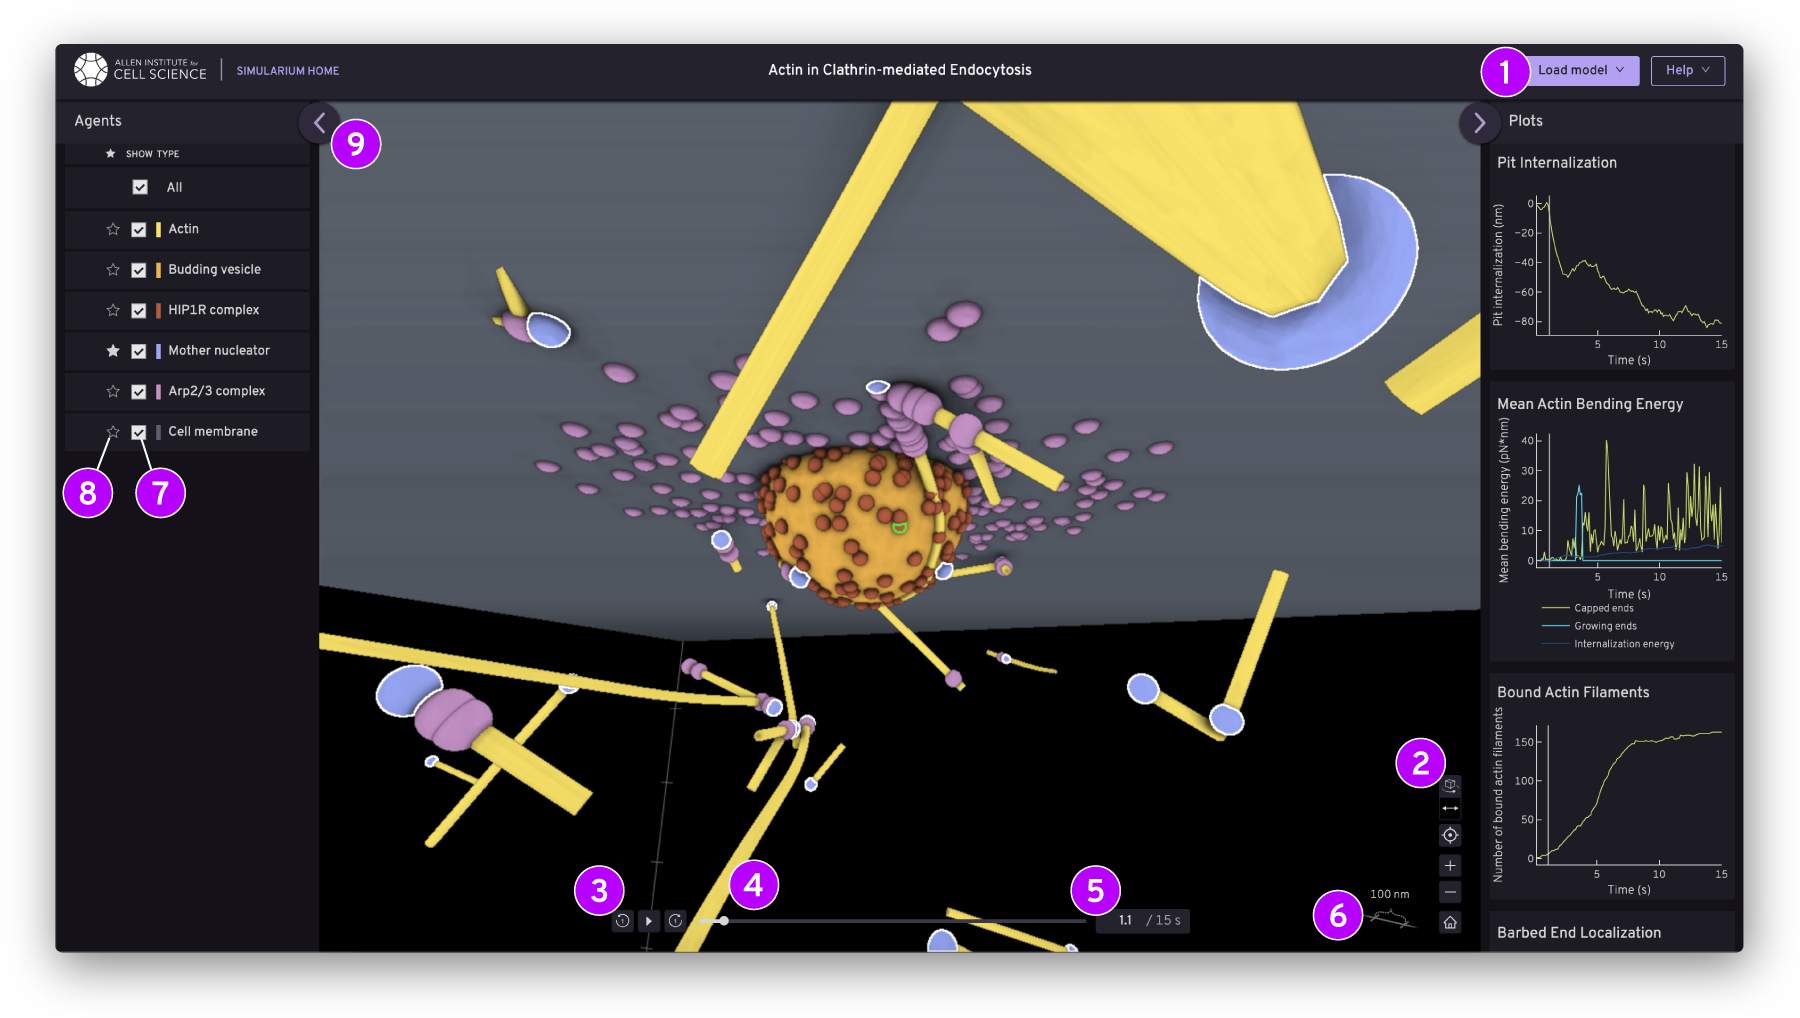
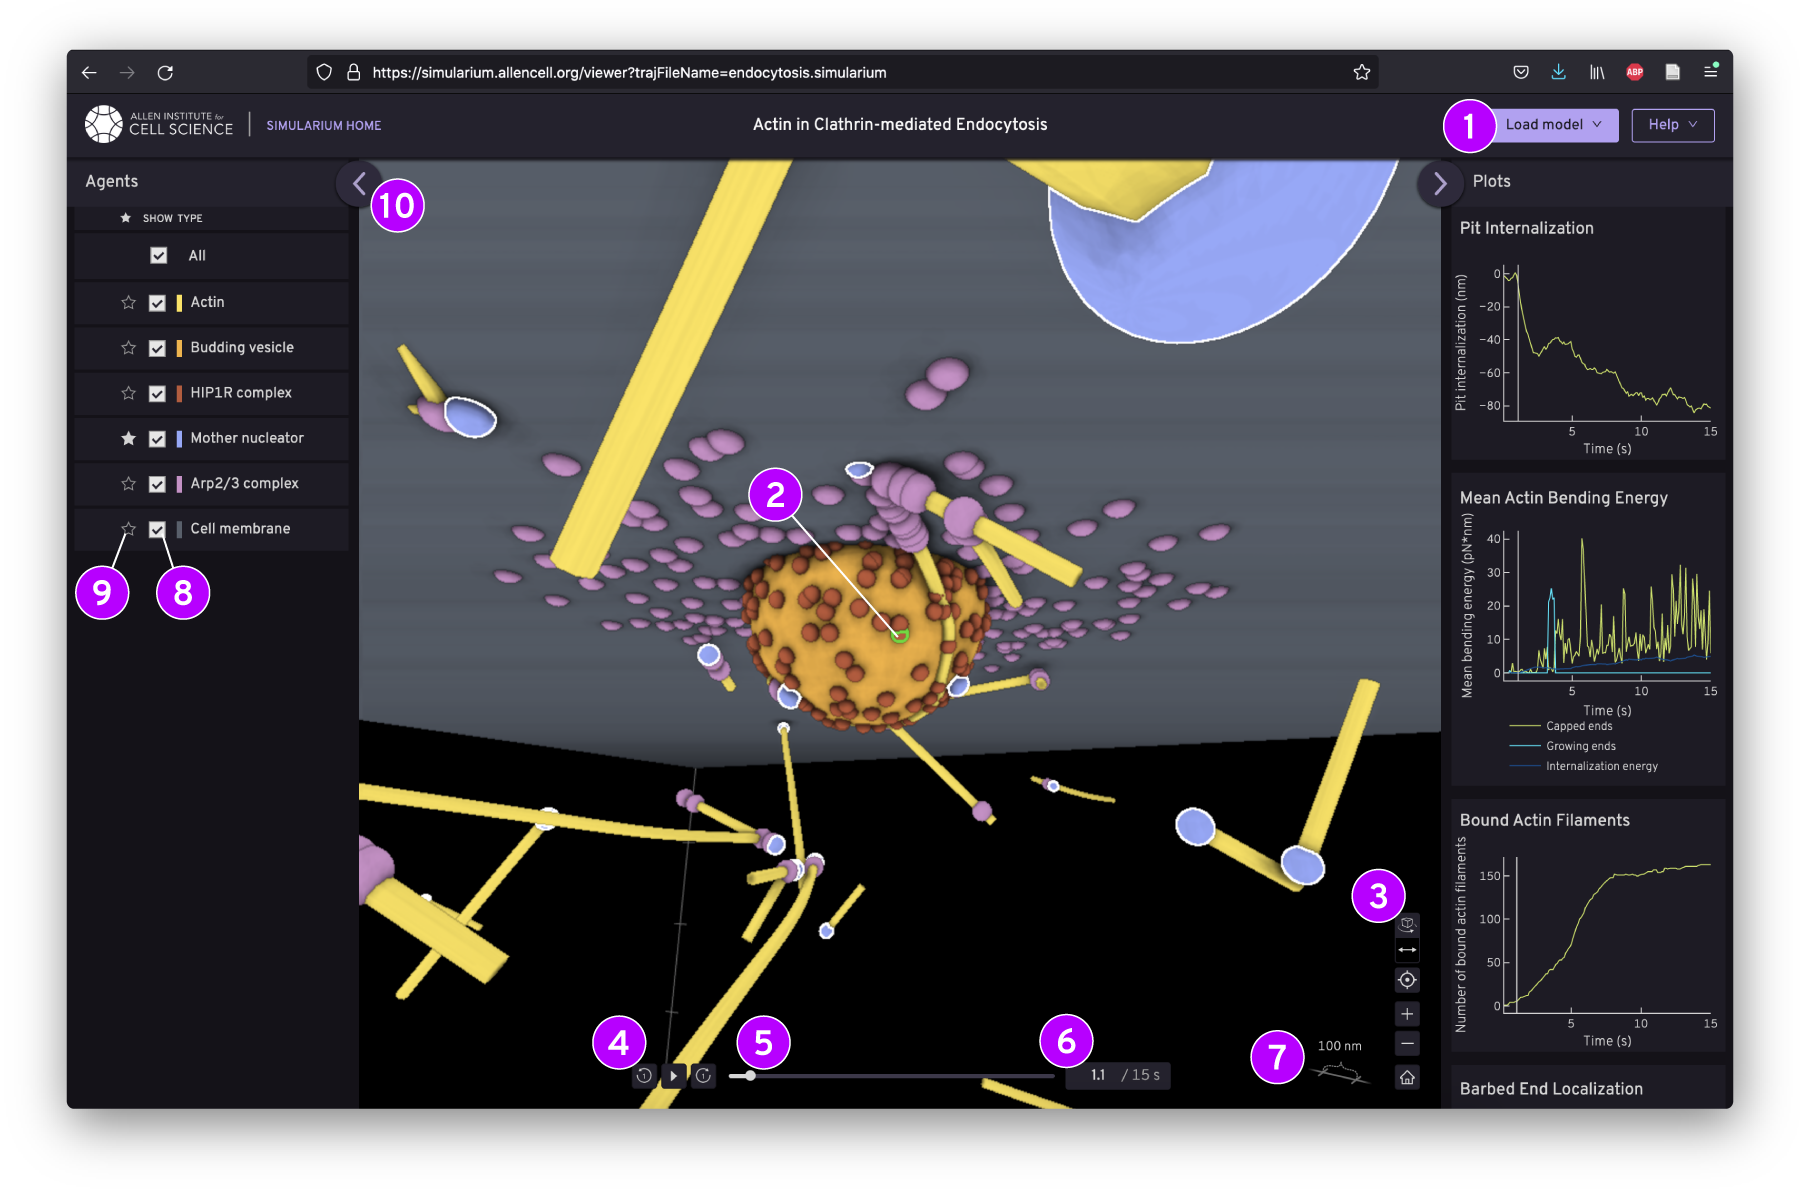
Update image and glossary key again

Changed region(s): [[0.0311, 0.0305, 0.9956, 0.944]]

diff --git a/src/constants/visual-glossary.ts b/src/constants/visual-glossary.ts
@@ -7,6 +7,11 @@ const visualGlossary: VisualGlossaryItem[] = [
             "Use this menu to choose an example model to view, or to select a file from a public cloud URL or from your local computer. You can also load a file locally from your computer by dragging it into the viewport.",
     },
     {
+        label: "CLICK TO SELECT & FOLLOW ANY OBJECT",
+        description:
+            "Left mouse clicking on any object in the 3D viewport will trigger the camera to point at it and to move to a helpful viewing distance. The camera will continue to Follow that object (outlined in bright green) until another another is selected, or all objects are deselected by clicking on an empty space in the viewport's background. It's easiest to pause the playback before attempting to CLICK on an object to follow.",
+    },
+    {
         label: "CAMERA CONTROLS, from top to bottom:",
         description: "",
         bulletItems: [
